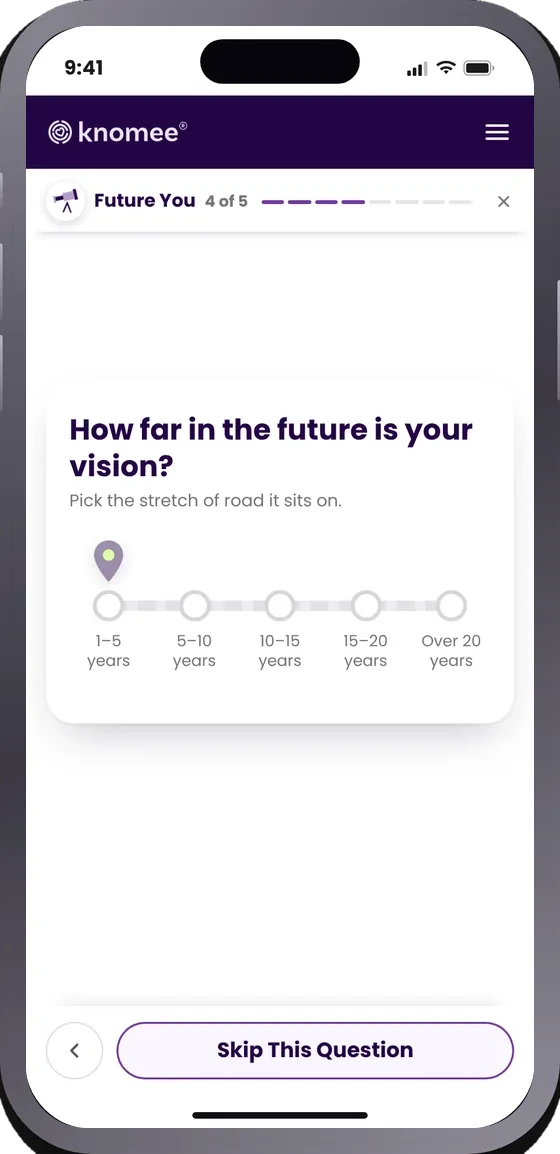
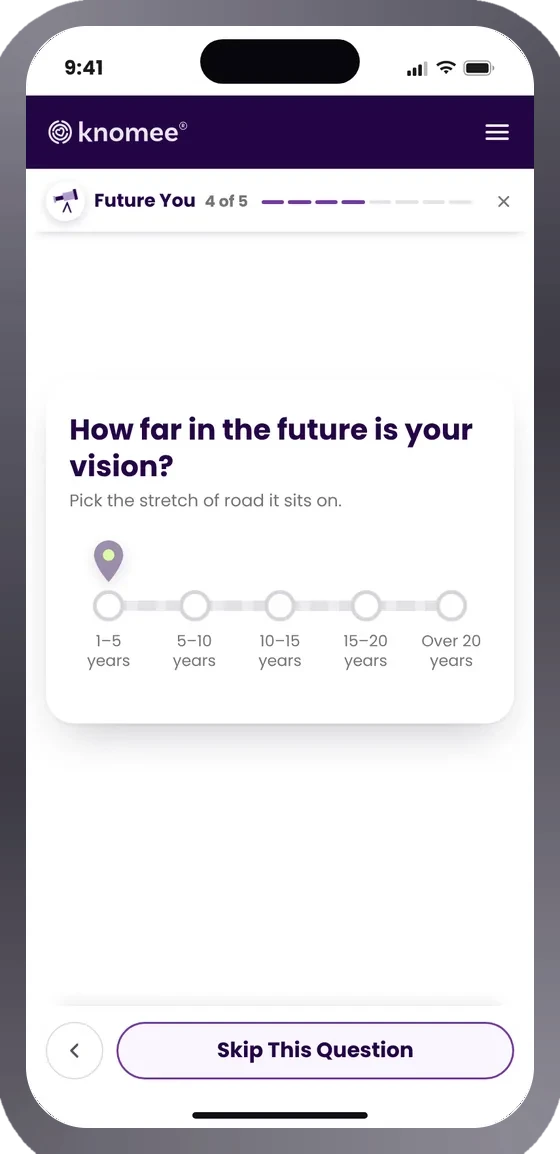
Plain grey phone rims, faint cover shadow, slider kept on the screen
- Phone frames: the whole rim is redrawn from its own mid-tone, so the
  prototype's dark outer edge at the bottom corners, its bright lines and
  the black ring are all gone: one grey, straight into the screen.
- Adventures cover: rebuilt from those phones with a faint, wide shadow
  (the darker one read as a black stroke where the phones overlap).
- Before/after: screens are trimmed 4px before framing (the 2024 shots had
  a magenta selection edge); the divider and the reveal travel across the
  screen only, never onto the rim; the year tags sit above the phone.
- Pictures change in place under the same name, so every picture's link
  now carries ?v=imgVersion (content.js), the way the CSS and JS do.

diff --git a/index.html b/index.html
@@ -24,8 +24,8 @@
 <meta name="theme-color" media="(prefers-color-scheme: dark)" content="#0A1430">
 <link rel="preload" href="assets/fonts/bricolage-grotesque-latin-standard-normal.woff2" as="font" type="font/woff2" crossorigin>
 <link rel="preload" href="assets/fonts/instrument-sans-latin-standard-normal.woff2" as="font" type="font/woff2" crossorigin>
-<link rel="stylesheet" href="assets/css/main.css?v=2026-10-22zo">
-<link rel="stylesheet" href="assets/css/design-system.css?v=2026-10-22zo">
+<link rel="stylesheet" href="assets/css/main.css?v=2026-10-22zp">
+<link rel="stylesheet" href="assets/css/design-system.css?v=2026-10-22zp">
 <script>
   /* Apply saved theme and language before first paint (no flash). */
   (function () {
@@ -393,7 +393,7 @@
             <a class="pc-social" data-social="github" href="https://github.com/victor-mascaro-ux" target="_blank" rel="noopener" aria-label="GitHub" title="GitHub"><svg viewBox="0 0 24 24" aria-hidden="true"><path d="M9 19c-4 1.3-4-2-6-2.5M15 21v-3.4a3 3 0 0 0-.8-2.3c2.8-.3 5.8-1.4 5.8-6.2a4.8 4.8 0 0 0-1.3-3.3 4.5 4.5 0 0 0-.1-3.3s-1-.3-3.4 1.3a11.6 11.6 0 0 0-6.2 0C6.6 2.2 5.6 2.5 5.6 2.5a4.5 4.5 0 0 0-.1 3.3 4.8 4.8 0 0 0-1.3 3.3c0 4.8 3 5.9 5.8 6.2a3 3 0 0 0-.8 2.3V21"></path></svg></a>
           </div>
         </div>
-      </article></div><details class="ds-code"><summary class="btn btn-ghost btn-small"><svg class="ds-chev" viewBox="0 0 24 24" aria-hidden="true"><path d="M9 5l7 7-7 7"/></svg><span data-i18n="ds.showCode">Show code</span><span class="sr-only"> <span data-i18n="ds.for">for</span> Player Card</span></summary><div class="ds-code-body"><pre class="ds-pre" tabindex="0" aria-label="Player Card: HTML"><code></code></pre><button class="btn btn-ghost btn-small" type="button" data-copy-code="Player Card HTML"><svg viewBox="0 0 24 24" aria-hidden="true"><rect x="8" y="8" width="12" height="12" rx="2.5"/><path d="M16 8V6.5A2.5 2.5 0 0 0 13.5 4h-7A2.5 2.5 0 0 0 4 6.5v7A2.5 2.5 0 0 0 6.5 16H8"/></svg><span data-i18n="ds.copyCode">Copy code</span><span class="sr-only"> <span data-i18n="ds.for">for</span> Player Card</span></button></div></details></article><article class="ds-comp" id="ds-c-process-step"><div class="ds-comp-head"><h5 class="ds-h4">Process Step</h5><p data-i18n="ds.sum.process-step">A numbered step in the Process tab, with a screenshot, an explanation and a linked example.</p></div><div class="ds-stage is-wide" style="--ds-h: 560px"><ol class="process-list" data-ds-live="process"></ol></div><details class="ds-code"><summary class="btn btn-ghost btn-small"><svg class="ds-chev" viewBox="0 0 24 24" aria-hidden="true"><path d="M9 5l7 7-7 7"/></svg><span data-i18n="ds.showCode">Show code</span><span class="sr-only"> <span data-i18n="ds.for">for</span> Process Step</span></summary><div class="ds-code-body"><pre class="ds-pre" tabindex="0" aria-label="Process Step: HTML"><code></code></pre><button class="btn btn-ghost btn-small" type="button" data-copy-code="Process Step HTML"><svg viewBox="0 0 24 24" aria-hidden="true"><rect x="8" y="8" width="12" height="12" rx="2.5"/><path d="M16 8V6.5A2.5 2.5 0 0 0 13.5 4h-7A2.5 2.5 0 0 0 4 6.5v7A2.5 2.5 0 0 0 6.5 16H8"/></svg><span data-i18n="ds.copyCode">Copy code</span><span class="sr-only"> <span data-i18n="ds.for">for</span> Process Step</span></button></div></details></article><article class="ds-comp" id="ds-c-side-card"><div class="ds-comp-head"><h5 class="ds-h4">Side Card</h5><p data-i18n="ds.sum.side-card">Small external-link cards for side projects and game jams.</p></div><div class="ds-stage " style="--ds-h: 270px"><ul class="side-list" data-ds-live="side"></ul></div><details class="ds-code"><summary class="btn btn-ghost btn-small"><svg class="ds-chev" viewBox="0 0 24 24" aria-hidden="true"><path d="M9 5l7 7-7 7"/></svg><span data-i18n="ds.showCode">Show code</span><span class="sr-only"> <span data-i18n="ds.for">for</span> Side Card</span></summary><div class="ds-code-body"><pre class="ds-pre" tabindex="0" aria-label="Side Card: HTML"><code></code></pre><button class="btn btn-ghost btn-small" type="button" data-copy-code="Side Card HTML"><svg viewBox="0 0 24 24" aria-hidden="true"><rect x="8" y="8" width="12" height="12" rx="2.5"/><path d="M16 8V6.5A2.5 2.5 0 0 0 13.5 4h-7A2.5 2.5 0 0 0 4 6.5v7A2.5 2.5 0 0 0 6.5 16H8"/></svg><span data-i18n="ds.copyCode">Copy code</span><span class="sr-only"> <span data-i18n="ds.for">for</span> Side Card</span></button></div></details></article></div><div class="ds-group"><h4 class="ds-h3" data-i18n="ds.g.case">Case study</h4><article class="ds-comp" id="ds-c-case-study-head"><div class="ds-comp-head"><h5 class="ds-h4">Case Study Head</h5><p data-i18n="ds.sum.case-study-head">The top of a case study sheet: eyebrow, title, tagline, a four-column meta table and actions.</p></div><div class="ds-stage " style="--ds-h: 440px" data-ds-live="csHead"></div><details class="ds-code"><summary class="btn btn-ghost btn-small"><svg class="ds-chev" viewBox="0 0 24 24" aria-hidden="true"><path d="M9 5l7 7-7 7"/></svg><span data-i18n="ds.showCode">Show code</span><span class="sr-only"> <span data-i18n="ds.for">for</span> Case Study Head</span></summary><div class="ds-code-body"><pre class="ds-pre" tabindex="0" aria-label="Case Study Head: HTML"><code></code></pre><button class="btn btn-ghost btn-small" type="button" data-copy-code="Case Study Head HTML"><svg viewBox="0 0 24 24" aria-hidden="true"><rect x="8" y="8" width="12" height="12" rx="2.5"/><path d="M16 8V6.5A2.5 2.5 0 0 0 13.5 4h-7A2.5 2.5 0 0 0 4 6.5v7A2.5 2.5 0 0 0 6.5 16H8"/></svg><span data-i18n="ds.copyCode">Copy code</span><span class="sr-only"> <span data-i18n="ds.for">for</span> Case Study Head</span></button></div></details></article><article class="ds-comp" id="ds-c-case-section"><div class="ds-comp-head"><h5 class="ds-h4">Case Section</h5><p data-i18n="ds.sum.case-section">A labelled section of a case study, usually a list of design moves with screenshots: phone screens side by side in a grey phone frame, desktop screens one above the other.</p></div><div class="ds-stage " style="--ds-h: 460px" data-ds-live="csSection"></div><details class="ds-code"><summary class="btn btn-ghost btn-small"><svg class="ds-chev" viewBox="0 0 24 24" aria-hidden="true"><path d="M9 5l7 7-7 7"/></svg><span data-i18n="ds.showCode">Show code</span><span class="sr-only"> <span data-i18n="ds.for">for</span> Case Section</span></summary><div class="ds-code-body"><pre class="ds-pre" tabindex="0" aria-label="Case Section: HTML"><code></code></pre><button class="btn btn-ghost btn-small" type="button" data-copy-code="Case Section HTML"><svg viewBox="0 0 24 24" aria-hidden="true"><rect x="8" y="8" width="12" height="12" rx="2.5"/><path d="M16 8V6.5A2.5 2.5 0 0 0 13.5 4h-7A2.5 2.5 0 0 0 4 6.5v7A2.5 2.5 0 0 0 6.5 16H8"/></svg><span data-i18n="ds.copyCode">Copy code</span><span class="sr-only"> <span data-i18n="ds.for">for</span> Case Section</span></button></div></details></article><article class="ds-comp" id="ds-c-compare"><div class="ds-comp-head"><h5 class="ds-h4">Compare</h5><p data-i18n="ds.sum.compare">A before-and-after slider for case study pictures. Drag the divider, or press Before or After. Phone screens share one grey phone frame, so only the screen changes; the divider and the tags stay on the screen.</p></div><div class="ds-stage " style="--ds-h: 560px" data-ds-live="compare"></div><details class="ds-code"><summary class="btn btn-ghost btn-small"><svg class="ds-chev" viewBox="0 0 24 24" aria-hidden="true"><path d="M9 5l7 7-7 7"/></svg><span data-i18n="ds.showCode">Show code</span><span class="sr-only"> <span data-i18n="ds.for">for</span> Compare</span></summary><div class="ds-code-body"><pre class="ds-pre" tabindex="0" aria-label="Compare: HTML"><code></code></pre><button class="btn btn-ghost btn-small" type="button" data-copy-code="Compare HTML"><svg viewBox="0 0 24 24" aria-hidden="true"><rect x="8" y="8" width="12" height="12" rx="2.5"/><path d="M16 8V6.5A2.5 2.5 0 0 0 13.5 4h-7A2.5 2.5 0 0 0 4 6.5v7A2.5 2.5 0 0 0 6.5 16H8"/></svg><span data-i18n="ds.copyCode">Copy code</span><span class="sr-only"> <span data-i18n="ds.for">for</span> Compare</span></button></div></details></article><article class="ds-comp" id="ds-c-film"><div class="ds-comp-head"><h5 class="ds-h4">Film</h5><p data-i18n="ds.sum.film">A storyboard of a video: pick a frame, or press play to load the video from YouTube’s privacy-enhanced domain.</p></div><div class="ds-stage " style="--ds-h: 600px" data-ds-live="film"></div><details class="ds-code"><summary class="btn btn-ghost btn-small"><svg class="ds-chev" viewBox="0 0 24 24" aria-hidden="true"><path d="M9 5l7 7-7 7"/></svg><span data-i18n="ds.showCode">Show code</span><span class="sr-only"> <span data-i18n="ds.for">for</span> Film</span></summary><div class="ds-code-body"><pre class="ds-pre" tabindex="0" aria-label="Film: HTML"><code></code></pre><button class="btn btn-ghost btn-small" type="button" data-copy-code="Film HTML"><svg viewBox="0 0 24 24" aria-hidden="true"><rect x="8" y="8" width="12" height="12" rx="2.5"/><path d="M16 8V6.5A2.5 2.5 0 0 0 13.5 4h-7A2.5 2.5 0 0 0 4 6.5v7A2.5 2.5 0 0 0 6.5 16H8"/></svg><span data-i18n="ds.copyCode">Copy code</span><span class="sr-only"> <span data-i18n="ds.for">for</span> Film</span></button></div></details></article></div><div class="ds-group"><h4 class="ds-h3" data-i18n="ds.g.feedback">Feedback</h4><article class="ds-comp" id="ds-c-quest-log"><div class="ds-comp-head"><h5 class="ds-h4">Quest Log</h5><p data-i18n="ds.sum.quest-log">The XP game panel: level, progress bar and the list of quests a visitor can complete.</p></div><div class="ds-stage " style="--ds-h: 560px" data-ds-live="questlog"></div><details class="ds-code"><summary class="btn btn-ghost btn-small"><svg class="ds-chev" viewBox="0 0 24 24" aria-hidden="true"><path d="M9 5l7 7-7 7"/></svg><span data-i18n="ds.showCode">Show code</span><span class="sr-only"> <span data-i18n="ds.for">for</span> Quest Log</span></summary><div class="ds-code-body"><pre class="ds-pre" tabindex="0" aria-label="Quest Log: HTML"><code></code></pre><button class="btn btn-ghost btn-small" type="button" data-copy-code="Quest Log HTML"><svg viewBox="0 0 24 24" aria-hidden="true"><rect x="8" y="8" width="12" height="12" rx="2.5"/><path d="M16 8V6.5A2.5 2.5 0 0 0 13.5 4h-7A2.5 2.5 0 0 0 4 6.5v7A2.5 2.5 0 0 0 6.5 16H8"/></svg><span data-i18n="ds.copyCode">Copy code</span><span class="sr-only"> <span data-i18n="ds.for">for</span> Quest Log</span></button></div></details></article><article class="ds-comp" id="ds-c-sheet-bar"><div class="ds-comp-head"><h5 class="ds-h4">Sheet Bar</h5><p data-i18n="ds.sum.sheet-bar">The sticky bar on top of a case study sheet, with breadcrumb, previous and next, close and reading progress.</p></div><div class="ds-stage " style="--ds-h: 140px"><div class="sheet-bar">
+      </article></div><details class="ds-code"><summary class="btn btn-ghost btn-small"><svg class="ds-chev" viewBox="0 0 24 24" aria-hidden="true"><path d="M9 5l7 7-7 7"/></svg><span data-i18n="ds.showCode">Show code</span><span class="sr-only"> <span data-i18n="ds.for">for</span> Player Card</span></summary><div class="ds-code-body"><pre class="ds-pre" tabindex="0" aria-label="Player Card: HTML"><code></code></pre><button class="btn btn-ghost btn-small" type="button" data-copy-code="Player Card HTML"><svg viewBox="0 0 24 24" aria-hidden="true"><rect x="8" y="8" width="12" height="12" rx="2.5"/><path d="M16 8V6.5A2.5 2.5 0 0 0 13.5 4h-7A2.5 2.5 0 0 0 4 6.5v7A2.5 2.5 0 0 0 6.5 16H8"/></svg><span data-i18n="ds.copyCode">Copy code</span><span class="sr-only"> <span data-i18n="ds.for">for</span> Player Card</span></button></div></details></article><article class="ds-comp" id="ds-c-process-step"><div class="ds-comp-head"><h5 class="ds-h4">Process Step</h5><p data-i18n="ds.sum.process-step">A numbered step in the Process tab, with a screenshot, an explanation and a linked example.</p></div><div class="ds-stage is-wide" style="--ds-h: 560px"><ol class="process-list" data-ds-live="process"></ol></div><details class="ds-code"><summary class="btn btn-ghost btn-small"><svg class="ds-chev" viewBox="0 0 24 24" aria-hidden="true"><path d="M9 5l7 7-7 7"/></svg><span data-i18n="ds.showCode">Show code</span><span class="sr-only"> <span data-i18n="ds.for">for</span> Process Step</span></summary><div class="ds-code-body"><pre class="ds-pre" tabindex="0" aria-label="Process Step: HTML"><code></code></pre><button class="btn btn-ghost btn-small" type="button" data-copy-code="Process Step HTML"><svg viewBox="0 0 24 24" aria-hidden="true"><rect x="8" y="8" width="12" height="12" rx="2.5"/><path d="M16 8V6.5A2.5 2.5 0 0 0 13.5 4h-7A2.5 2.5 0 0 0 4 6.5v7A2.5 2.5 0 0 0 6.5 16H8"/></svg><span data-i18n="ds.copyCode">Copy code</span><span class="sr-only"> <span data-i18n="ds.for">for</span> Process Step</span></button></div></details></article><article class="ds-comp" id="ds-c-side-card"><div class="ds-comp-head"><h5 class="ds-h4">Side Card</h5><p data-i18n="ds.sum.side-card">Small external-link cards for side projects and game jams.</p></div><div class="ds-stage " style="--ds-h: 270px"><ul class="side-list" data-ds-live="side"></ul></div><details class="ds-code"><summary class="btn btn-ghost btn-small"><svg class="ds-chev" viewBox="0 0 24 24" aria-hidden="true"><path d="M9 5l7 7-7 7"/></svg><span data-i18n="ds.showCode">Show code</span><span class="sr-only"> <span data-i18n="ds.for">for</span> Side Card</span></summary><div class="ds-code-body"><pre class="ds-pre" tabindex="0" aria-label="Side Card: HTML"><code></code></pre><button class="btn btn-ghost btn-small" type="button" data-copy-code="Side Card HTML"><svg viewBox="0 0 24 24" aria-hidden="true"><rect x="8" y="8" width="12" height="12" rx="2.5"/><path d="M16 8V6.5A2.5 2.5 0 0 0 13.5 4h-7A2.5 2.5 0 0 0 4 6.5v7A2.5 2.5 0 0 0 6.5 16H8"/></svg><span data-i18n="ds.copyCode">Copy code</span><span class="sr-only"> <span data-i18n="ds.for">for</span> Side Card</span></button></div></details></article></div><div class="ds-group"><h4 class="ds-h3" data-i18n="ds.g.case">Case study</h4><article class="ds-comp" id="ds-c-case-study-head"><div class="ds-comp-head"><h5 class="ds-h4">Case Study Head</h5><p data-i18n="ds.sum.case-study-head">The top of a case study sheet: eyebrow, title, tagline, a four-column meta table and actions.</p></div><div class="ds-stage " style="--ds-h: 440px" data-ds-live="csHead"></div><details class="ds-code"><summary class="btn btn-ghost btn-small"><svg class="ds-chev" viewBox="0 0 24 24" aria-hidden="true"><path d="M9 5l7 7-7 7"/></svg><span data-i18n="ds.showCode">Show code</span><span class="sr-only"> <span data-i18n="ds.for">for</span> Case Study Head</span></summary><div class="ds-code-body"><pre class="ds-pre" tabindex="0" aria-label="Case Study Head: HTML"><code></code></pre><button class="btn btn-ghost btn-small" type="button" data-copy-code="Case Study Head HTML"><svg viewBox="0 0 24 24" aria-hidden="true"><rect x="8" y="8" width="12" height="12" rx="2.5"/><path d="M16 8V6.5A2.5 2.5 0 0 0 13.5 4h-7A2.5 2.5 0 0 0 4 6.5v7A2.5 2.5 0 0 0 6.5 16H8"/></svg><span data-i18n="ds.copyCode">Copy code</span><span class="sr-only"> <span data-i18n="ds.for">for</span> Case Study Head</span></button></div></details></article><article class="ds-comp" id="ds-c-case-section"><div class="ds-comp-head"><h5 class="ds-h4">Case Section</h5><p data-i18n="ds.sum.case-section">A labelled section of a case study, usually a list of design moves with screenshots: phone screens side by side in a grey phone frame, desktop screens one above the other.</p></div><div class="ds-stage " style="--ds-h: 460px" data-ds-live="csSection"></div><details class="ds-code"><summary class="btn btn-ghost btn-small"><svg class="ds-chev" viewBox="0 0 24 24" aria-hidden="true"><path d="M9 5l7 7-7 7"/></svg><span data-i18n="ds.showCode">Show code</span><span class="sr-only"> <span data-i18n="ds.for">for</span> Case Section</span></summary><div class="ds-code-body"><pre class="ds-pre" tabindex="0" aria-label="Case Section: HTML"><code></code></pre><button class="btn btn-ghost btn-small" type="button" data-copy-code="Case Section HTML"><svg viewBox="0 0 24 24" aria-hidden="true"><rect x="8" y="8" width="12" height="12" rx="2.5"/><path d="M16 8V6.5A2.5 2.5 0 0 0 13.5 4h-7A2.5 2.5 0 0 0 4 6.5v7A2.5 2.5 0 0 0 6.5 16H8"/></svg><span data-i18n="ds.copyCode">Copy code</span><span class="sr-only"> <span data-i18n="ds.for">for</span> Case Section</span></button></div></details></article><article class="ds-comp" id="ds-c-compare"><div class="ds-comp-head"><h5 class="ds-h4">Compare</h5><p data-i18n="ds.sum.compare">A before-and-after slider for case study pictures. Drag the divider, or press Before or After. Phone screens share one grey phone frame, so only the screen changes: the divider travels across the screen only, and the tags sit above the phone.</p></div><div class="ds-stage " style="--ds-h: 560px" data-ds-live="compare"></div><details class="ds-code"><summary class="btn btn-ghost btn-small"><svg class="ds-chev" viewBox="0 0 24 24" aria-hidden="true"><path d="M9 5l7 7-7 7"/></svg><span data-i18n="ds.showCode">Show code</span><span class="sr-only"> <span data-i18n="ds.for">for</span> Compare</span></summary><div class="ds-code-body"><pre class="ds-pre" tabindex="0" aria-label="Compare: HTML"><code></code></pre><button class="btn btn-ghost btn-small" type="button" data-copy-code="Compare HTML"><svg viewBox="0 0 24 24" aria-hidden="true"><rect x="8" y="8" width="12" height="12" rx="2.5"/><path d="M16 8V6.5A2.5 2.5 0 0 0 13.5 4h-7A2.5 2.5 0 0 0 4 6.5v7A2.5 2.5 0 0 0 6.5 16H8"/></svg><span data-i18n="ds.copyCode">Copy code</span><span class="sr-only"> <span data-i18n="ds.for">for</span> Compare</span></button></div></details></article><article class="ds-comp" id="ds-c-film"><div class="ds-comp-head"><h5 class="ds-h4">Film</h5><p data-i18n="ds.sum.film">A storyboard of a video: pick a frame, or press play to load the video from YouTube’s privacy-enhanced domain.</p></div><div class="ds-stage " style="--ds-h: 600px" data-ds-live="film"></div><details class="ds-code"><summary class="btn btn-ghost btn-small"><svg class="ds-chev" viewBox="0 0 24 24" aria-hidden="true"><path d="M9 5l7 7-7 7"/></svg><span data-i18n="ds.showCode">Show code</span><span class="sr-only"> <span data-i18n="ds.for">for</span> Film</span></summary><div class="ds-code-body"><pre class="ds-pre" tabindex="0" aria-label="Film: HTML"><code></code></pre><button class="btn btn-ghost btn-small" type="button" data-copy-code="Film HTML"><svg viewBox="0 0 24 24" aria-hidden="true"><rect x="8" y="8" width="12" height="12" rx="2.5"/><path d="M16 8V6.5A2.5 2.5 0 0 0 13.5 4h-7A2.5 2.5 0 0 0 4 6.5v7A2.5 2.5 0 0 0 6.5 16H8"/></svg><span data-i18n="ds.copyCode">Copy code</span><span class="sr-only"> <span data-i18n="ds.for">for</span> Film</span></button></div></details></article></div><div class="ds-group"><h4 class="ds-h3" data-i18n="ds.g.feedback">Feedback</h4><article class="ds-comp" id="ds-c-quest-log"><div class="ds-comp-head"><h5 class="ds-h4">Quest Log</h5><p data-i18n="ds.sum.quest-log">The XP game panel: level, progress bar and the list of quests a visitor can complete.</p></div><div class="ds-stage " style="--ds-h: 560px" data-ds-live="questlog"></div><details class="ds-code"><summary class="btn btn-ghost btn-small"><svg class="ds-chev" viewBox="0 0 24 24" aria-hidden="true"><path d="M9 5l7 7-7 7"/></svg><span data-i18n="ds.showCode">Show code</span><span class="sr-only"> <span data-i18n="ds.for">for</span> Quest Log</span></summary><div class="ds-code-body"><pre class="ds-pre" tabindex="0" aria-label="Quest Log: HTML"><code></code></pre><button class="btn btn-ghost btn-small" type="button" data-copy-code="Quest Log HTML"><svg viewBox="0 0 24 24" aria-hidden="true"><rect x="8" y="8" width="12" height="12" rx="2.5"/><path d="M16 8V6.5A2.5 2.5 0 0 0 13.5 4h-7A2.5 2.5 0 0 0 4 6.5v7A2.5 2.5 0 0 0 6.5 16H8"/></svg><span data-i18n="ds.copyCode">Copy code</span><span class="sr-only"> <span data-i18n="ds.for">for</span> Quest Log</span></button></div></details></article><article class="ds-comp" id="ds-c-sheet-bar"><div class="ds-comp-head"><h5 class="ds-h4">Sheet Bar</h5><p data-i18n="ds.sum.sheet-bar">The sticky bar on top of a case study sheet, with breadcrumb, previous and next, close and reading progress.</p></div><div class="ds-stage " style="--ds-h: 140px"><div class="sheet-bar">
       <span class="sheet-crumb label">UX/AI<span class="sep"> · </span>2/4</span>
       <div class="sheet-bar-tools">
         <button class="tool icon" type="button" aria-label="Previous"><svg viewBox="0 0 24 24" aria-hidden="true"><path d="M15 5l-7 7 7 7"></path></svg></button>
@@ -512,8 +512,8 @@
   <img id="lbImg" alt="">
 </div>
 
-<script src="assets/js/content.js?v=2026-10-22zo"></script>
-<script src="assets/js/app.js?v=2026-10-22zo"></script>
-<script src="assets/js/design-system.js?v=2026-10-22zo"></script>
+<script src="assets/js/content.js?v=2026-10-22zp"></script>
+<script src="assets/js/app.js?v=2026-10-22zp"></script>
+<script src="assets/js/design-system.js?v=2026-10-22zp"></script>
 </body>
 </html>

diff --git a/assets/js/app.js b/assets/js/app.js
@@ -105,10 +105,10 @@
   function cardHTML(c, i) {
     var media = '';
     if (c.art === 'fan') {
-      media = '<div class="cc-media"><img src="' + c.cover + '" alt="' + esc(L(c.coverAlt)) + '" loading="lazy" width="1100" height="1027"></div>';
+      media = '<div class="cc-media"><img src="' + asset(c.cover) + '" alt="' + esc(L(c.coverAlt)) + '" loading="lazy" width="1100" height="1027"></div>';
     } else if (c.cover) {
       // the picture fills the whole picture area, edge to edge
-      media = '<div class="cc-media cover"><img src="' + c.cover + '" alt="' + esc(L(c.coverAlt)) + '" loading="lazy"></div>';
+      media = '<div class="cc-media cover"><img src="' + asset(c.cover) + '" alt="' + esc(L(c.coverAlt)) + '" loading="lazy"></div>';
     } else if (c.emblem) {
       media = '<div class="cc-media"><div class="emblem">' + EMBLEM[c.emblem] + '</div></div>';
     }
@@ -137,7 +137,7 @@
     $('#sideList').innerHTML = C.side.map(function (s) {
       var tag = s.url ? 'a href="' + esc(s.url) + '" target="_blank" rel="noopener"' : 'div';
       return '<li><' + tag + ' class="side-card">' +
-        (s.img ? '<span class="side-media' + (s.fit === 'contain' ? ' is-contain' : '') + '"><img src="' + s.img + '" alt="" loading="lazy"></span>' : '') +
+        (s.img ? '<span class="side-media' + (s.fit === 'contain' ? ' is-contain' : '') + '"><img src="' + asset(s.img) + '" alt="" loading="lazy"></span>' : '') +
         '<span class="side-text"><strong>' + esc(s.t) + (s.url ? ICON.ext : '') + '</strong><span>' + esc(L(s.d)) + '</span></span>' +
         '</' + (s.url ? 'a' : 'div') + '></li>';
     }).join('');
@@ -147,7 +147,7 @@
      h3, since the Lab tab has no group heading above its cards. */
   function labCardHTML(p) {
     return '<a class="case-card tone-' + p.tone + '" href="' + esc(p.url) + '" target="_blank" rel="noopener" data-layout="' + p.layout + '">' +
-      '<div class="cc-media cover"><img src="' + p.cover + '" alt="' + esc(L(p.coverAlt)) + '" loading="lazy"></div>' +
+      '<div class="cc-media cover"><img src="' + asset(p.cover) + '" alt="' + esc(L(p.coverAlt)) + '" loading="lazy"></div>' +
       '<div class="cc-body">' +
         '<p class="cc-kicker label">' + esc(L(p.kicker)) + '</p>' +
         '<h3 class="cc-title">' + esc(L(p.title)) + '</h3>' +
@@ -164,7 +164,7 @@
 
   /* shot: an image of its own instead of the case's cover (a Process step can show a different screen) */
   function caseThumb(c, cls, shot) {
-    return '<span class="' + cls + ' tone-' + c.tone + (c.art && !shot ? ' is-art' : '') + '"><img src="' + (shot || c.cover) + '" alt="" loading="lazy"></span>';
+    return '<span class="' + cls + ' tone-' + c.tone + (c.art && !shot ? ' is-art' : '') + '"><img src="' + asset(shot || c.cover) + '" alt="" loading="lazy"></span>';
   }
   function renderProcess() {
     $('#processList').innerHTML = C.process.map(function (p, i) {
@@ -180,7 +180,7 @@
 
   // company logos sit on a white tile, so dark, red and black marks read on light and dark themes alike
   function logoTile(x, cls) {
-    return '<span class="' + cls + ' has-logo' + (x.logoFill ? ' is-fill' : '') + (x.logoWide ? ' is-wide' : '') + '" aria-hidden="true"><img src="' + x.logo + '" alt="" loading="lazy"></span>';
+    return '<span class="' + cls + ' has-logo' + (x.logoFill ? ' is-fill' : '') + (x.logoWide ? ' is-wide' : '') + '" aria-hidden="true"><img src="' + asset(x.logo) + '" alt="" loading="lazy"></span>';
   }
   // the tools used in a job, as logos: one per brand (Figma, FigJam and Figma prototyping share Figma's), the names in a tooltip
   var TOOLS_SPRITE = 'assets/img/tools.svg?v=2026-10-20m';   // bump when the sprite changes, or a cached copy misses new logos
@@ -232,7 +232,7 @@
         (cases.length || games.length ? '<div class="tl-cases">' + cases.map(function (c) {
           return '<a class="tl-case" href="#case-' + c.id + '" data-case="' + c.id + '">' + caseThumb(c, 'tl-thumb') + '<span>' + esc(L(c.title)) + '</span></a>';
         }).join('') + games.map(function (g) {
-          return '<a class="tl-case" href="' + esc(g.url) + '" target="_blank" rel="noopener"><span class="tl-thumb' + (g.fit === 'contain' ? ' is-art' : '') + '"><img src="' + g.img + '" alt="" loading="lazy"></span><span>' + esc(g.t) + '</span>' + ICON.ext + '</a>';
+          return '<a class="tl-case" href="' + esc(g.url) + '" target="_blank" rel="noopener"><span class="tl-thumb' + (g.fit === 'contain' ? ' is-art' : '') + '"><img src="' + asset(g.img) + '" alt="" loading="lazy"></span><span>' + esc(g.t) + '</span>' + ICON.ext + '</a>';
         }).join('') + '</div>' : '') + toolsHTML(x.tools) + '</div></li>';
     }).join('');
     // the career path: oldest job on the left (by start month), the current one always on the right
@@ -581,8 +581,11 @@
   function caseById(id) { return C.cases.filter(function (c) { return c.id === id; })[0]; }
   function caseIndex(id) { for (var i = 0; i < C.cases.length; i++) if (C.cases[i].id === id) return i; return -1; }
 
+  // Pictures are replaced in place, under the same name, so their address carries imgVersion (content.js)
+  // the way the CSS and JS links carry ?v=: a changed picture reaches a browser that has the old one.
+  function asset(src) { return /^assets\/img\//.test(src) ? src + '?v=' + C.person.imgVersion : src; }
   function imgTag(src, alt, cls) {
-    return '<img src="' + src + '" alt="' + esc(alt || '') + '" loading="lazy"' + (cls ? ' class="' + cls + '"' : '') + '>';
+    return '<img src="' + asset(src) + '" alt="' + esc(alt || '') + '" loading="lazy"' + (cls ? ' class="' + cls + '"' : '') + '>';
   }
 
   // names what to press (Before/After or a year) and how (click with a mouse, tap on touch)
@@ -601,7 +604,7 @@
     if (m.film) {
       var f0 = m.film[0];
       return '<div class="film" data-film' + (m.video ? ' data-video="' + esc(m.video) + '"' : '') + '>' +
-        '<div class="film-screen"><img src="' + f0.src + '" alt="' + esc(L(f0.cap)) + '" data-film-img>' +
+        '<div class="film-screen"><img src="' + asset(f0.src) + '" alt="' + esc(L(f0.cap)) + '" data-film-img>' +
         (m.video ? '<button type="button" class="film-play" data-film-play aria-label="' + esc(t('case.play')) + '">' + ICON.play + '</button>' : '') +
         '<p class="film-cap"><span data-film-t>' + f0.t + '</span><span data-film-cap>' + esc(L(f0.cap)) + '</span></p></div>' +
         '<div class="film-strip">' + m.film.map(function (f, i) {
@@ -696,7 +699,9 @@
       cmp.style.setProperty('--pos', v + '%');
       tagB.setAttribute('aria-pressed', String(v >= 100)); tagA.setAttribute('aria-pressed', String(v <= 0));
     }
-    function follow(e) { var r = cmp.getBoundingClientRect(); set((e.clientX - r.left) / r.width * 100); }
+    // a phone pair's divider travels across the screen only: 25px in from each side of the 560px frame
+    var phone = cmp.classList.contains('is-phone'), x0 = phone ? 25 / 560 : 0, xw = phone ? 510 / 560 : 1;
+    function follow(e) { var r = cmp.getBoundingClientRect(); set(((e.clientX - r.left) / r.width - x0) / xw * 100); }
     input.addEventListener('input', function () { set(+input.value); });
     // drag the divider with a mouse, a finger or a pen (vertical swipes still scroll on touch)
     cmp.addEventListener('pointerdown', function (e) {
@@ -714,7 +719,7 @@
     var btns = $$('.film-strip button', film);
     function show(i) {
       var f = frames[i];
-      if (!reduceMotion.matches) { img.classList.add('swap'); setTimeout(function () { img.src = f.src; img.classList.remove('swap'); }, 120); } else img.src = f.src;
+      if (!reduceMotion.matches) { img.classList.add('swap'); setTimeout(function () { img.src = asset(f.src); img.classList.remove('swap'); }, 120); } else img.src = asset(f.src);
       img.alt = L(f.cap); cap.textContent = L(f.cap); tt.textContent = f.t; range.value = i;
       btns.forEach(function (b, j) { b.setAttribute('aria-pressed', String(j === i)); });
     }

diff --git a/scripts/reframe-phone.js b/scripts/reframe-phone.js
@@ -1,10 +1,11 @@
-// Gives a phone screenshot from the Knomee prototype the portfolio's frame: the prototype's own grey
-// rim, with the thin black ring between the rim and the screen taken out. Every pixel of that ring
-// takes the rim's colour straight outward from it, so the grey (with its light and shade) runs right
-// into the screen. The screen is left as it is.
+// Gives a phone screenshot from the Knomee prototype the portfolio's frame: a plain grey rim running
+// straight into the screen. The prototype's rim has a thin black ring inside it, bright lines along it
+// and an outer edge that darkens to black at the bottom corners; all of that read as stray strokes.
+// So every pixel of the rim takes the rim's mid-tone straight outward from it: the grey keeps its
+// light and shade around the phone, but is one tone across. The screen is left as it is.
 // Input: the prototype's framed phone, 560×1154 (its iPhone element at deviceScaleFactor 2), transparent outside the body.
-// The frame's curves share corner centres 87px in from each corner: the rim's outside is 87px from them,
-// the black ring starts ~73px out, the screen's edge is 61px out.
+// The frame's curves share corner centres 87px in from each corner: the rim's mid-tone is 77px from
+// them, the old black ring started ~73px out, and the screen's edge is 61px out.
 // Usage (from the repo root):
 //   npx playwright@1.56.0 install chromium   # first time only
 //   node scripts/reframe-phone.js shot.png [more.png …]   # writes assets/img/<name>.webp
@@ -25,16 +26,18 @@ const fs = require('fs'), path = require('path');
       const at = (i, j) => (j * W + i) * 4;
       if (W !== 560 || H !== 1154 || px[3] !== 0 || px[at(8, H >> 1) + 3] !== 255) return { skip: W + 'x' + H + ', not a framed phone' };
       const was = new Uint8ClampedArray(px);
-      const C = 87, SCREEN = 61, RING = 73.5, SAMPLE = 77;   // distances from the corner centres
+      const C = 87, SCREEN = 61, RING = 73.5, TONE = 77;   // distances from the corner centres
+      const along = (cx, cy, dx, dy, dist, r) => at(Math.round(cx + dx / dist * r - 0.5), Math.round(cy + dy / dist * r - 0.5));
       for (let j = 0; j < H; j++) for (let i = 0; i < W; i++) {
+        const o = at(i, j);
         const cx = Math.min(Math.max(i + 0.5, C), W - C), cy = Math.min(Math.max(j + 0.5, C), H - C);
         const dx = i + 0.5 - cx, dy = j + 0.5 - cy, dist = Math.hypot(dx, dy);
-        if (dist < SCREEN - 1 || dist > RING + 1) continue;
-        const s = at(Math.round(cx + dx / dist * SAMPLE - 0.5), Math.round(cy + dy / dist * SAMPLE - 0.5)), o = at(i, j);
-        // soft edges: into the screen on the inside, into the rim on the outside
-        const a = Math.min(1, Math.max(0, dist - (SCREEN - 0.5))) * Math.min(1, Math.max(0, RING + 0.5 - dist));
-        for (let k = 0; k < 3; k++) px[o + k] = was[s + k] * a + was[o + k] * (1 - a);
-        px[o + 3] = 255;
+        if (dist < SCREEN - 1 || was[o + 3] === 0) continue;
+        // the rim's mid-tone straight outward, and the screen just inside (clear of the old black ring)
+        const s = along(cx, cy, dx, dy, dist, TONE), n = along(cx, cy, dx, dy, dist, SCREEN - 2.5);
+        const a = Math.min(1, Math.max(0, dist - (SCREEN - 0.5)));   // only the screen's edge blends
+        for (let k = 0; k < 3; k++) px[o + k] = was[s + k] * a + was[n + k] * (1 - a);
+        if (dist < RING) px[o + 3] = 255;   // the outer edge keeps its own soft alpha
       }
       x.putImageData(d, 0, 0);
       return { url: c.toDataURL('image/webp', 0.9) };

diff --git a/assets/js/content.js b/assets/js/content.js
@@ -15,7 +15,9 @@ window.CONTENT = {
     github: 'https://github.com/victor-mascaro-ux',
     cv: { en: 'assets/cv/Victor-Mascaro-CV-EN.pdf', pt: 'assets/cv/Victor-Mascaro-CV-PT.pdf' },
     // bump whenever the PDFs are rebuilt: it changes the link, so browsers don't show an old saved copy
-    cvVersion: '2026-10-22e'
+    cvVersion: '2026-10-22e',
+    // bump when a picture in assets/img changes under the same name: it changes every picture's link
+    imgVersion: '2026-10-22a'
   },
 
   /* ---------- Interface strings ---------- */
@@ -282,7 +284,7 @@ window.CONTENT = {
       'ds.sum.side-card': 'Small external-link cards for side projects and game jams.',
       'ds.sum.case-study-head': 'The top of a case study sheet: eyebrow, title, tagline, a four-column meta table and actions.',
       'ds.sum.case-section': 'A labelled section of a case study, usually a list of design moves with screenshots: phone screens side by side in a grey phone frame, desktop screens one above the other.',
-      'ds.sum.compare': 'A before-and-after slider for case study pictures. Drag the divider, or press Before or After. Phone screens share one grey phone frame, so only the screen changes; the divider and the tags stay on the screen.',
+      'ds.sum.compare': 'A before-and-after slider for case study pictures. Drag the divider, or press Before or After. Phone screens share one grey phone frame, so only the screen changes: the divider travels across the screen only, and the tags sit above the phone.',
       'ds.sum.film': 'A storyboard of a video: pick a frame, or press play to load the video from YouTube’s privacy-enhanced domain.',
       'ds.sum.quest-log': 'The XP game panel: level, progress bar and the list of quests a visitor can complete.',
       'ds.sum.sheet-bar': 'The sticky bar on top of a case study sheet, with breadcrumb, previous and next, close and reading progress.',
@@ -712,7 +714,7 @@ window.CONTENT = {
       'ds.sum.side-card': 'Cards pequenos com link externo, para projetos paralelos e game jams.',
       'ds.sum.case-study-head': 'O topo do painel de um estudo de caso: eyebrow, título, tagline, uma tabela de quatro colunas e ações.',
       'ds.sum.case-section': 'Uma seção com rótulo de um estudo de caso, em geral uma lista de decisões de design com telas: telas de celular lado a lado numa moldura cinza de celular, telas de desktop uma embaixo da outra.',
-      'ds.sum.compare': 'Um comparador de antes e depois para as imagens dos estudos de caso. Arraste o divisor ou aperte Antes ou Depois. Telas de celular dividem a mesma moldura cinza de celular, então só a tela muda; o divisor e as etiquetas ficam na tela.',
+      'ds.sum.compare': 'Um comparador de antes e depois para as imagens dos estudos de caso. Arraste o divisor ou aperte Antes ou Depois. Telas de celular dividem a mesma moldura cinza de celular, então só a tela muda: o divisor percorre só a tela, e as etiquetas ficam acima do celular.',
       'ds.sum.film': 'O storyboard de um vídeo: escolha um quadro ou aperte play para carregar o vídeo pelo domínio com privacidade reforçada do YouTube.',
       'ds.sum.quest-log': 'O painel do jogo de XP: nível, barra de progresso e a lista de missões que o visitante pode completar.',
       'ds.sum.sheet-bar': 'A barra fixa no topo do painel de um estudo de caso, com a trilha, anterior e próximo, fechar e o progresso de leitura.',

diff --git a/assets/css/main.css b/assets/css/main.css
@@ -1100,9 +1100,13 @@ img.brand-mark { display: block; background: none; box-shadow: none; }
 /* Phone screens: both pictures carry the same grey phone frame, so the box gives way to the phone's own
    shape and glow, and the divider and the tags stay on the screen (inset 25/1154 of the height, 25/560 of the width) */
 .compare.is-phone { border: 0; border-radius: 0; overflow: visible; box-shadow: none; filter: var(--pic-drop); }
-.compare.is-phone .cmp-line { top: 2.2%; bottom: 2.2%; }
-.compare.is-phone .cmp-tag { top: calc(2.2% + 8px); }
-.compare.is-phone .cmp-tag.before { left: calc(4.5% + 6px); } .compare.is-phone .cmp-tag.after { right: calc(4.5% + 6px); }
+.compare.is-phone { margin-top: 32px; }
+/* the divider and the reveal travel across the screen only (25px in from each side of the 560px frame), never onto the rim */
+.compare.is-phone .cmp-line { top: 2.2%; bottom: 2.2%; left: calc(4.46% + var(--pos) * .9107); }
+.compare.is-phone .cmp-after { clip-path: inset(0 0 0 calc(4.46% + var(--pos) * .9107)); }
+/* the year tags sit above the phone, over its corners, so they never cover the app's own bar */
+.compare.is-phone .cmp-tag { top: -30px; }
+.compare.is-phone .cmp-tag.before { left: 0; } .compare.is-phone .cmp-tag.after { right: 0; }
 .compare-hint { font-size: .74rem; color: var(--muted); font-family: var(--f-mono); }
 
 /* film scrubber */

diff --git a/scripts/frame-screen.js b/scripts/frame-screen.js
@@ -22,8 +22,10 @@ const FRAME = 'assets/img/k-adventures.webp';
       x.drawImage(fr, 0, 0);
       x.save(); x.beginPath(); x.roundRect(X, Y, SW, SH, R); x.clip(); x.clearRect(0, 0, W, H);
       x.fillStyle = '#fff'; x.fillRect(X, Y, SW, SH);
-      const k = Math.max(SW / sc.naturalWidth, SH / sc.naturalHeight), w = sc.naturalWidth * k, h = sc.naturalHeight * k;
-      x.drawImage(sc, X + (SW - w) / 2, Y + (SH - h) / 2, w, h);
+      // screenshots often carry a 1–3px border (a selection outline) that would show along the frame: trim 4px
+      const T = 4, iw = sc.naturalWidth - T * 2, ih = sc.naturalHeight - T * 2;
+      const k = Math.max(SW / iw, SH / ih), w = iw * k, h = ih * k;
+      x.drawImage(sc, T, T, iw, ih, X + (SW - w) / 2, Y + (SH - h) / 2, w, h);
       x.restore();
       return c.toDataURL('image/webp', 0.9);
     }, { frame: uri(FRAME), screen: uri(f) });

diff --git a/CLAUDE.md b/CLAUDE.md
@@ -51,5 +51,5 @@ Craft details matter as much as content.
 2. Desktop 1440px and phone 390px, light and dark, EN and PT.
 3. Open each case study; Esc and the browser Back button both close it.
 4. No horizontal scroll at 390px; no console errors.
-5. Images: WebP, ≤1600px wide, `alt` text in both languages where possible. Phone screens from the Knomee prototype keep the prototype's grey rim with no black ring inside it: run `scripts/reframe-phone.js` on the 560×1154 capture (its iPhone element at deviceScaleFactor 2). A bare screen goes into the same frame with `scripts/frame-screen.js`; a before/after pair of phone screens is framed that way and marked `phone: true` (`phones: true` on an evolution) so the slider drops its box. Shadows stay whole inside a picture: never crop one at the picture's edge. Desktop screens in a case stack one above the other (`kind: 'pair'` or `'wide'`).
+5. Images: WebP, ≤1600px wide, `alt` text in both languages where possible. Phone screens from the Knomee prototype wear a plain grey rim running straight into the screen (no black ring, no dark outer edge): run `scripts/reframe-phone.js` on the 560×1154 capture (its iPhone element at deviceScaleFactor 2). A bare screen goes into the same frame with `scripts/frame-screen.js`; a before/after pair of phone screens is framed that way and marked `phone: true` (`phones: true` on an evolution) so the slider drops its box. Shadows stay whole inside a picture and faint (a dark one reads as a stroke): never crop one at the picture's edge. Pictures change in place under the same name, so bump `imgVersion` in content.js (every picture's link carries it, like `?v=` on the CSS and JS) or browsers keep showing the old one. Desktop screens in a case stack one above the other (`kind: 'pair'` or `'wide'`).
 6. If CV content changed, rebuild the PDFs (`scripts/build-cv.js`) and bump `cvVersion` in content.js (and the `?v=` on the CV links in index.html), so browsers fetch the new file instead of a saved copy.
